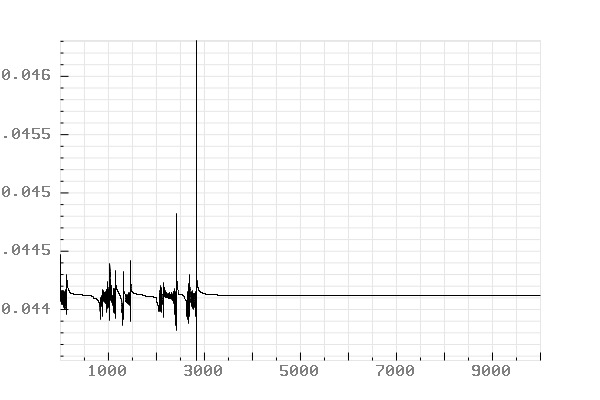
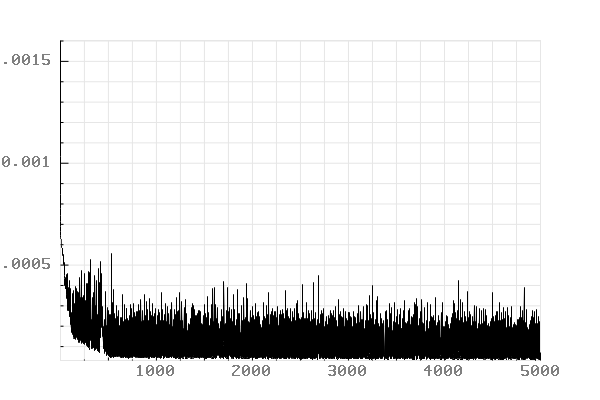
worked on sine wave nn

diff --git a/NN-Library/NN-Library.cpp b/NN-Library/NN-Library.cpp
@@ -48,7 +48,7 @@ void SineWave()
 	std::vector<float> testInputs = { 0.0f };
 	std::vector<float> testWeights;
 	testWeights.clear();
-	for (int i = 0; i < 128; ++i)
+	for (int i = 0; i < 32; ++i)
 	{
 		int randomInt = (rand() % 200) - 100;
 		float tempWeight = (float)randomInt / 100.0f;
@@ -56,32 +56,38 @@ void SineWave()
 	}
 	std::vector<float> testBiases = { 0.5f, 0.6f, 1.0f, 5.0f, 4.0f, -2.0f, -4.0f, -3.0f, -2.6f, 3.3f, 0.5f, 0.6f, 1.0f, 5.0f, 4.0f, -2.0f, -4.0f, -3.0f, -2.6f, 3.3f };
 	testBiases.clear();
-	for (int i = 0; i < 128; ++i)
+	for (int i = 0; i < 32; ++i)
 	{
 		int randomInt = (rand() % 200) - 100;
 		float tempBias = (float)randomInt / 100.0f;
 		testBiases.push_back(tempBias);
 	}
-	int testNodes = 128;
+	int testNodes = 32;
 	ACTIVATION testActivation = ACTIVATION::SIGMOID;
 	ConnectedLayer* cLayer = new ConnectedLayer(testInputs, testWeights, testBiases, testNodes, testActivation);
 
 	/*testInputs = { 0.0f, 0.0f, 0.0f, 0.0f, 0.0f, 0.0f, 0.0f, 0.0f, 0.0f, 0.0f, 0.0f, 0.0f, 0.0f, 0.0f, 0.0f, 0.0f, 0.0f, 0.0f, 0.0f, 0.0f };
 	testWeights.clear();
-	for (int i = 0; i < 200; ++i)
+	for (int i = 0; i < 32*32; ++i)
 	{
 		int randomInt = (rand() % 200) - 100;
 		float tempWeight = (float)randomInt / 100.0f;
 		testWeights.push_back(tempWeight);
 	}
-	testBiases = { 0.5f, 0.6f, 1.0f, 5.0f, 4.0f, -2.0f, -4.0f, -3.0f, -2.6f, 3.3f };
-	testNodes = 10;
+	testBiases.clear();
+	for (int i = 0; i < 32; ++i)
+	{
+		int randomInt = (rand() % 200) - 100;
+		float tempBias = (float)randomInt / 100.0f;
+		testBiases.push_back(tempBias);
+	}
+	testNodes = 32;
 	testActivation = ACTIVATION::SIGMOID;
 	ConnectedLayer* cLayer2 = new ConnectedLayer(testInputs, testWeights, testBiases, testNodes, testActivation);*/
 
 	testInputs = { 0.0f, 0.0f, 0.0f, 0.0f, 0.0f, 0.0f, 0.0f, 0.0f, 0.0f, 0.0f };
 	testWeights.clear();
-	for (int i = 0; i < 128; ++i)
+	for (int i = 0; i < 32; ++i)
 	{
 		int randomInt = (rand() % 200) - 100;
 		float tempWeight = (float)randomInt / 100.0f;
@@ -92,13 +98,13 @@ void SineWave()
 	testActivation = ACTIVATION::SIGMOID;
 	ConnectedLayer* cLayer3 = new ConnectedLayer(testInputs, testWeights, testBiases, testNodes, testActivation);
 
-	int sets = 11;
+	int sets = 90;
 	NeuralNetwork* nn = new NeuralNetwork(sets);
 	nn->AddLayer(cLayer);
 	//nn->AddLayer(cLayer2);
 	nn->AddLayer(cLayer3);
 
-	const int iterations = 10000;
+	const int iterations = 5000;
 	std::vector<float> outputs;
 	float cost = 0.0f;
 	std::vector<double> outputCosts(iterations);
@@ -108,13 +114,18 @@ void SineWave()
 
 	testInputs.clear();
 	expectedOutputs.clear();
+	float tempIter = 90.0f / sets;
+	float tempInput = 0.0f;
 	for (int setIndex = 0; setIndex < sets; ++setIndex)
 	{
-		testInputs.push_back(M_PI * 2 / (setIndex + 1.0f));
+		tempInput += tempIter;
+		testInputs.push_back(tempInput);
+		expectedOutputs.push_back(sinf(tempInput * (M_PI/180.0f)));
+
 	}
 	
-	testInputs = { 0.0f, 45.0f, 90.0f, 135.0f, 180.0f, 217.0f, 225.0f, 270.0f, 279.0f, 315.0f, 360.0f };
-	expectedOutputs = { 0.0f, 0.7071f, 1.0f, 0.7071f, 0.0f, -0.6018f, -0.7071f, -1.0f, -0.9877f, -0.7071f, 0.0f };
+	//testInputs = { 0.0f, 45.0f, 90.0f, 135.0f, 180.0f, 217.0f, 225.0f, 270.0f, 279.0f, 315.0f, 360.0f };
+	//expectedOutputs = { 0.0f, 0.7071f, 1.0f, 0.7071f, 0.0f, -0.6018f, -0.7071f, -1.0f, -0.9877f, -0.7071f, 0.0f };
 
 	for (int i = 0; i < iterations; ++i)
 	{
